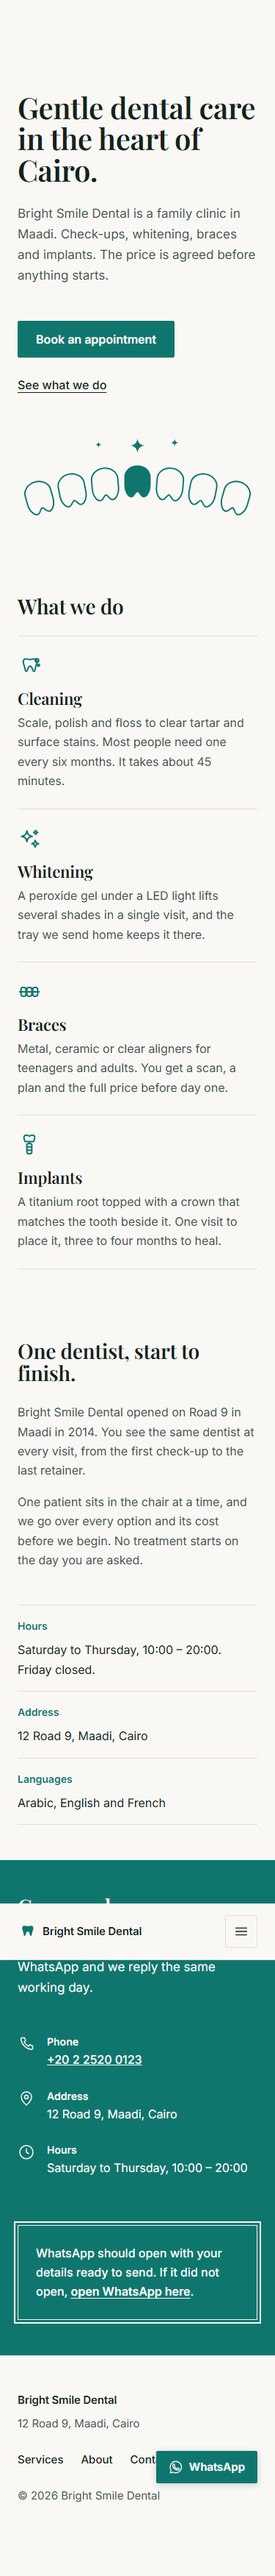
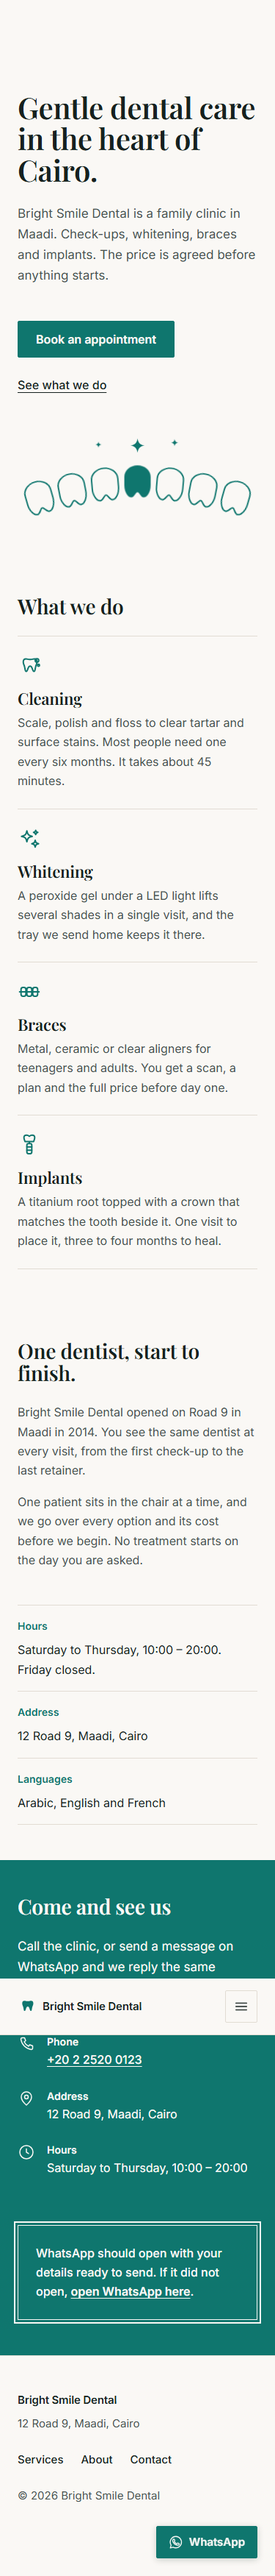
feat: hand-written scroll reveal and hover animations
Adds scroll reveal via a small own IntersectionObserver (no animation
library) on the section titles, service cards with a 70ms stagger, and
the about/contact columns, plus a one-time hero tooth fade-in intro.
Hover effects: buttons lift 1px, service card icons lift, links shift
to teal. Motion is gated on JavaScript and prefers-reduced-motion, so
content shows fully without both. LICENSES.md records the no-library
decision and the OFL-licensed fonts. Whole motion layer costs +1.2 KB
gzipped; CLS stays under 0.02.

🤖 Generated with Codebuff

Changed region(s): [[0.0, 0.7161, 1.0, 0.8095], [0.5573, 0.934, 0.9387, 0.9963]]

diff --git a/index.html b/index.html
@@ -16,6 +16,13 @@
 <link rel="preconnect" href="https://fonts.gstatic.com" crossorigin>
 <link href="https://fonts.googleapis.com/css2?family=Inter:wght@400;500;600&family=Playfair+Display:wght@500;600&display=swap" rel="stylesheet">
 <link rel="stylesheet" href="styles.css">
+<script>
+  /* Motion gate (own code, no library): scroll reveal and the hero intro run
+     only when JavaScript is available and reduced motion is not requested. */
+  if (!window.matchMedia('(prefers-reduced-motion: reduce)').matches) {
+    document.documentElement.classList.add('motion');
+  }
+</script>
 </head>
 <body id="top">
 
@@ -67,16 +74,16 @@
           <defs>
             <path id="tooth" d="M0 24C0 10.7 12.5 0 28 0C43.5 0 56 10.7 56 24L56 42C56 57 48 68 41 68C35 68 32 57 28 57C24 57 21 68 15 68C8 68 0 57 0 42Z"/>
           </defs>
-          <g fill="none" stroke="currentColor" stroke-width="3">
-            <use href="#tooth" transform="translate(18,108) rotate(-16 28 34)"/>
-            <use href="#tooth" transform="translate(88,92) rotate(-11 28 34)"/>
-            <use href="#tooth" transform="translate(158,80) rotate(-5 28 34)"/>
-            <use href="#tooth" transform="translate(296,80) rotate(5 28 34)"/>
-            <use href="#tooth" transform="translate(366,92) rotate(11 28 34)"/>
-            <use href="#tooth" transform="translate(436,108) rotate(16 28 34)"/>
+          <g class="arch" fill="none" stroke="currentColor" stroke-width="3">
+            <use class="tooth" href="#tooth" transform="translate(18,108) rotate(-16 28 34)"/>
+            <use class="tooth" href="#tooth" transform="translate(88,92) rotate(-11 28 34)"/>
+            <use class="tooth" href="#tooth" transform="translate(158,80) rotate(-5 28 34)"/>
+            <use class="tooth" href="#tooth" transform="translate(296,80) rotate(5 28 34)"/>
+            <use class="tooth" href="#tooth" transform="translate(366,92) rotate(11 28 34)"/>
+            <use class="tooth" href="#tooth" transform="translate(436,108) rotate(16 28 34)"/>
           </g>
-          <use href="#tooth" transform="translate(227,74)" fill="currentColor"/>
-          <g fill="currentColor">
+          <use class="tooth tooth--bright" href="#tooth" transform="translate(227,74)" fill="currentColor"/>
+          <g class="sparkles" fill="currentColor">
             <path transform="translate(255,32)" d="M0-15C1.7-5.4 5.4-1.7 15 0 5.4 1.7 1.7 5.4 0 15-1.7 5.4-5.4 1.7-15 0-5.4-1.7-1.7-5.4 0-15Z"/>
             <path transform="translate(334,26) scale(.5)" d="M0-15C1.7-5.4 5.4-1.7 15 0 5.4 1.7 1.7 5.4 0 15-1.7 5.4-5.4 1.7-15 0-5.4-1.7-1.7-5.4 0-15Z"/>
             <path transform="translate(172,30) scale(.42)" d="M0-15C1.7-5.4 5.4-1.7 15 0 5.4 1.7 1.7 5.4 0 15-1.7 5.4-5.4 1.7-15 0-5.4-1.7-1.7-5.4 0-15Z"/>
@@ -88,10 +95,10 @@
 
   <section class="section" id="services">
     <div class="container">
-      <h2 class="section-title">What we do</h2>
+      <h2 class="section-title" data-reveal>What we do</h2>
       <div class="services-grid">
 
-        <article class="service">
+        <article class="service" data-reveal>
           <svg class="icon service-icon" viewBox="0 0 24 24" aria-hidden="true" focusable="false">
             <path d="M12 5.4c-1.3 0-2.2-.5-3.4-.5C6.7 4.9 5.8 6 5.8 8c0 2 .9 3 1.4 5.1.5 1.9.4 4.5 1.7 4.5 1.1 0 1.3-2 2-3.7.4-1.1 1.1-1.8 1.9-1.8s1.5.7 1.9 1.8c.7 1.7.9 3.7 2 3.7 1.3 0 1.2-2.6 1.7-4.5.5-2.1 1.4-3.1 1.4-5.1 0-2-.9-3.1-2.8-3.1-1.2 0-2.1.5-3.4.5z"/>
             <circle cx="19.8" cy="6.4" r="1.8"/>
@@ -101,7 +108,7 @@
           <p>Scale, polish and floss to clear tartar and surface stains. Most people need one every six months. It takes about 45 minutes.</p>
         </article>
 
-        <article class="service">
+        <article class="service" data-reveal>
           <svg class="icon service-icon" viewBox="0 0 24 24" aria-hidden="true" focusable="false">
             <path d="M9.5 4C10.33 7.85 11.15 8.67 15 9.5C11.15 10.33 10.33 11.15 9.5 15C8.67 11.15 7.85 10.33 4 9.5C7.85 8.67 8.67 7.85 9.5 4Z"/>
             <path d="M18 13.5C18.53 15.95 19.05 16.48 21.5 17C19.05 17.52 18.53 18.05 18 20.5C17.47 18.05 16.95 17.52 14.5 17C16.95 16.48 17.47 15.95 18 13.5Z"/>
@@ -111,7 +118,7 @@
           <p>A peroxide gel under a LED light lifts several shades in a single visit, and the tray we send home keeps it there.</p>
         </article>
 
-        <article class="service">
+        <article class="service" data-reveal>
           <svg class="icon service-icon" viewBox="0 0 24 24" aria-hidden="true" focusable="false">
             <path d="M2 12h20"/>
             <rect x="3.5" y="7.5" width="5" height="9" rx="2"/>
@@ -122,7 +129,7 @@
           <p>Metal, ceramic or clear aligners for teenagers and adults. You get a scan, a plan and the full price before day one.</p>
         </article>
 
-        <article class="service">
+        <article class="service" data-reveal>
           <svg class="icon service-icon" viewBox="0 0 24 24" aria-hidden="true" focusable="false">
             <path d="M6.5 4.5C6.5 3 7.7 2 9.2 2c1.1 0 2 .5 2.8 1.3.8-.8 1.7-1.3 2.8-1.3 1.5 0 2.7 1 2.7 2.5 0 1.7-.7 2.6-1.1 4.2H7.6C7.2 7.1 6.5 6.2 6.5 4.5z"/>
             <path d="M12 9v1.4"/>
@@ -139,12 +146,12 @@
 
   <section class="section" id="about">
     <div class="container about-inner">
-      <div class="about-text">
+      <div class="about-text" data-reveal>
         <h2 class="section-title">One dentist, start to finish.</h2>
         <p>Bright Smile Dental opened on Road 9 in Maadi in 2014. You see the same dentist at every visit, from the first check-up to the last retainer.</p>
         <p>One patient sits in the chair at a time, and we go over every option and its cost before we begin. No treatment starts on the day you are asked.</p>
       </div>
-      <dl class="facts">
+      <dl class="facts" data-reveal>
         <div class="fact">
           <dt>Hours</dt>
           <!-- PLACEHOLDER: replace with the clinic's real opening hours -->
@@ -167,7 +174,7 @@
 
   <section class="section contact" id="contact">
     <div class="container contact-inner">
-      <div class="contact-info">
+      <div class="contact-info" data-reveal>
         <h2 class="section-title">Come and see us</h2>
         <p class="contact-lede">Call the clinic, or send a message on WhatsApp and we reply the same working day.</p>
         <ul class="contact-list">
@@ -206,7 +213,7 @@
         </ul>
       </div>
 
-      <div class="contact-form-wrap">
+      <div class="contact-form-wrap" data-reveal>
         <form class="contact-form" id="callback-form">
           <div class="field">
             <label for="name">Name</label>

diff --git a/styles.css b/styles.css
@@ -133,12 +133,14 @@ section[id] { scroll-margin-top: calc(var(--s4) + var(--s2)); }
   line-height: 1;
   text-decoration: none;
   cursor: pointer;
-  transition: background-color .15s ease, border-color .15s ease;
+  transition: background-color .15s ease, border-color .15s ease,
+    transform .18s cubic-bezier(.22, 1, .36, 1);
 }
 
 .btn:hover {
   background: var(--teal-deep);
   border-color: var(--teal-deep);
+  transform: translateY(-1px);
 }
 
 .btn-small { padding: var(--s1) var(--s2); font-size: .9375rem; }
@@ -148,9 +150,13 @@ section[id] { scroll-margin-top: calc(var(--s4) + var(--s2)); }
   text-decoration: underline;
   text-underline-offset: 4px;
   text-decoration-thickness: 1px;
+  transition: color .15s ease;
 }
 
-.link-quiet:hover { text-decoration-thickness: 2px; }
+.link-quiet:hover {
+  color: var(--teal);
+  text-decoration-thickness: 2px;
+}
 
 /* ---------- Floating WhatsApp button ---------- */
 
@@ -268,9 +274,14 @@ section[id] { scroll-margin-top: calc(var(--s4) + var(--s2)); }
 .site-nav a {
   text-decoration: none;
   font-weight: 500;
+  transition: color .15s ease;
 }
 
-.site-nav a:not(.btn):hover { text-decoration: underline; text-underline-offset: 4px; }
+.site-nav a:not(.btn):hover {
+  color: var(--teal);
+  text-decoration: underline;
+  text-underline-offset: 4px;
+}
 .site-nav .btn { align-self: flex-start; }
 
 /* ---------- Hero ---------- */
@@ -323,6 +334,14 @@ section[id] { scroll-margin-top: calc(var(--s4) + var(--s2)); }
   height: 32px;
   color: var(--teal);
   margin-bottom: var(--s2);
+  transition: transform .2s cubic-bezier(.22, 1, .36, 1), color .2s ease;
+}
+
+.service:hover { border-color: var(--teal); }
+
+.service:hover .service-icon {
+  color: var(--teal-deep);
+  transform: translateY(-2px);
 }
 
 .service h3 {
@@ -410,7 +429,12 @@ section[id] { scroll-margin-top: calc(var(--s4) + var(--s2)); }
   font-weight: 600;
 }
 
-.contact-list a { font-weight: 500; }
+.contact-list a {
+  font-weight: 500;
+  text-underline-offset: 3px;
+}
+
+.contact-list a:hover { text-decoration-thickness: 2px; }
 
 .contact-form {
   display: grid;
@@ -508,8 +532,65 @@ section[id] { scroll-margin-top: calc(var(--s4) + var(--s2)); }
   font-weight: 500;
 }
 
-.footer-nav a { text-decoration: none; }
-.footer-nav a:hover { text-decoration: underline; text-underline-offset: 4px; }
+.footer-nav a {
+  text-decoration: none;
+  transition: color .15s ease;
+}
+
+.footer-nav a:hover {
+  color: var(--teal);
+  text-decoration: underline;
+  text-underline-offset: 4px;
+}
+
+/* ---------- Motion (hand-written, no library) ----------
+   The .motion class is set by a one-line inline script in <head>, only when
+   JavaScript runs and prefers-reduced-motion is not set. Without it every
+   reveal target and hero tooth keeps its resting, fully visible state. */
+
+@keyframes tooth-in { from { opacity: 0; } to { opacity: 1; } }
+
+.motion .hero-art .tooth,
+.motion .hero-art .sparkles path {
+  opacity: 0;
+  animation: tooth-in .45s cubic-bezier(.22, 1, .36, 1) forwards;
+}
+
+.motion .arch .tooth:nth-child(1) { animation-delay: .12s; }
+.motion .arch .tooth:nth-child(2) { animation-delay: .175s; }
+.motion .arch .tooth:nth-child(3) { animation-delay: .23s; }
+.motion .arch .tooth:nth-child(4) { animation-delay: .285s; }
+.motion .arch .tooth:nth-child(5) { animation-delay: .34s; }
+.motion .arch .tooth:nth-child(6) { animation-delay: .395s; }
+.motion .tooth--bright { animation-delay: .45s; }
+.motion .sparkles path:nth-child(1) { animation-delay: .55s; }
+.motion .sparkles path:nth-child(2) { animation-delay: .62s; }
+.motion .sparkles path:nth-child(3) { animation-delay: .69s; }
+
+.motion [data-reveal] {
+  opacity: 0;
+  transform: translateY(14px);
+  transition: opacity .55s cubic-bezier(.22, 1, .36, 1),
+    transform .55s cubic-bezier(.22, 1, .36, 1);
+}
+
+.motion [data-reveal].is-revealed {
+  opacity: 1;
+  transform: none;
+}
+
+/* calm stagger: cards and second columns trail their partner by 70ms */
+.motion .services-grid .service[data-reveal] {
+  transition: opacity .55s cubic-bezier(.22, 1, .36, 1),
+    transform .55s cubic-bezier(.22, 1, .36, 1),
+    border-color .2s ease;
+}
+
+.motion .services-grid .service:nth-child(2) { transition-delay: .07s; }
+.motion .services-grid .service:nth-child(3) { transition-delay: .14s; }
+.motion .services-grid .service:nth-child(4) { transition-delay: .21s; }
+.motion .facts[data-reveal],
+.motion .contact-form-wrap[data-reveal] { transition-delay: .07s; }
 
 /* ---------- Breakpoints ---------- */
 
@@ -571,5 +652,14 @@ section[id] { scroll-margin-top: calc(var(--s4) + var(--s2)); }
 
 @media (prefers-reduced-motion: reduce) {
   html { scroll-behavior: auto; }
-  .btn { transition: none; }
+
+  *,
+  *::before,
+  *::after {
+    animation-duration: .01ms !important;
+    animation-delay: 0ms !important;
+    animation-iteration-count: 1 !important;
+    transition-duration: .01ms !important;
+    transition-delay: 0ms !important;
+  }
 }

diff --git a/script.js b/script.js
@@ -62,3 +62,23 @@ form.addEventListener('submit', (event) => {
 
 // Footer year
 document.querySelector('[data-year]').textContent = new Date().getFullYear();
+
+// Scroll reveal — hand-rolled IntersectionObserver, no animation library.
+// The .motion class (set inline in <head>) is absent when JavaScript is off
+// or the visitor prefers reduced motion; then everything shows at once.
+const revealTargets = document.querySelectorAll('[data-reveal]');
+const motionOn = document.documentElement.classList.contains('motion');
+
+if (!motionOn || !('IntersectionObserver' in window)) {
+  revealTargets.forEach((el) => el.classList.add('is-revealed'));
+} else {
+  const observer = new IntersectionObserver((entries, obs) => {
+    entries.forEach((entry) => {
+      if (!entry.isIntersecting) return;
+      entry.target.classList.add('is-revealed');
+      obs.unobserve(entry.target);
+    });
+  }, { threshold: 0.15, rootMargin: '0px 0px -40px 0px' });
+
+  revealTargets.forEach((el) => observer.observe(el));
+}

diff --git a/LICENSES.md b/LICENSES.md
@@ -1,0 +1,27 @@
+# Licences
+
+Third-party components in this project and where they come from.
+
+## Animation: no library added
+
+Scroll reveal and hover effects are hand-written: a small
+IntersectionObserver in `script.js` (about 20 lines, browser API) plus CSS
+transitions and keyframes in `styles.css`. Chosen per the
+ui-animation-sourcing checklist, where pure CSS / own IntersectionObserver is
+the lightest option: AOS (MIT, about 14 KB gzipped) or GSAP (about 23 KB
+gzipped) would add page weight for two simple effects on a local business
+site. Nothing for motion is loaded from a CDN, so no `vendor/` directory is
+needed and there is nothing external to pin.
+
+## Fonts
+
+Loaded from Google Fonts (not yet self-hosted):
+
+| Component | Version | Licence | Source | Added |
+| --- | --- | --- | --- | --- |
+| Inter (400, 500, 600) | via Google Fonts CSS2 API | SIL Open Font License 1.1 | https://github.com/rsms/inter | 2026-10-17 |
+| Playfair Display (500, 600) | via Google Fonts CSS2 API | SIL Open Font License 1.1 | https://github.com/clauseggers/Playfair | 2026-10-17 |
+
+## Site code
+
+All other HTML, CSS and JavaScript in this repository is original work.
